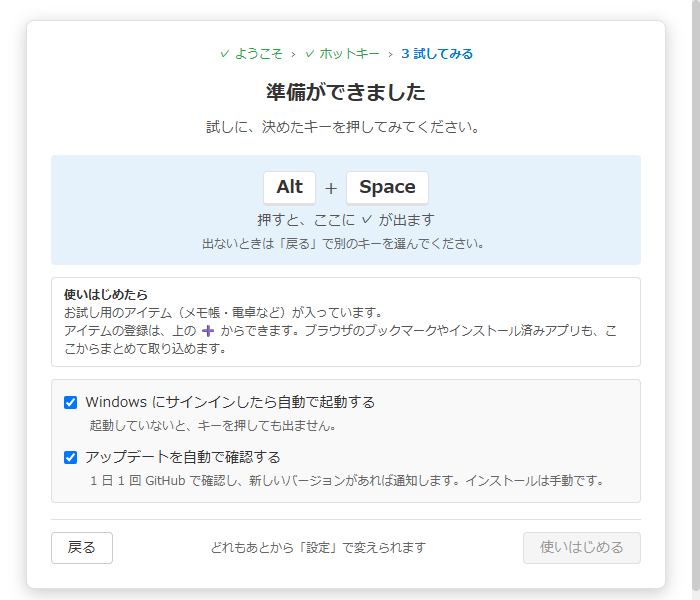
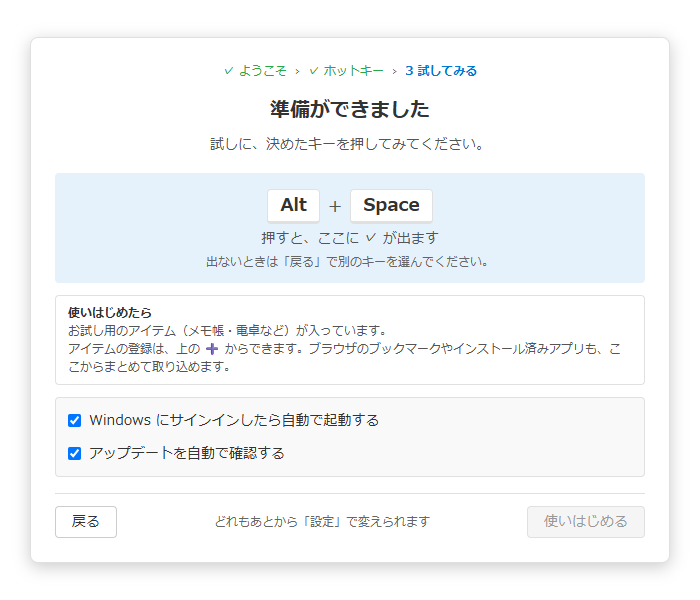
fix: 初回設定の「試してみる」のチェックの説明を消す (#686)
自動起動・アップデートの確認・ポータブルモードの 3 つのチェックの下の説明を消した（ラベルで分かるため）。
ポータブルモードのチェックを出すときは、ボタンの間の一文を「ポータブルモード以外は、あとから「設定」で変えられます」にした（あとから変えられない旨は説明に書いていたため）。

Changed region(s): [[0.03, 0.06, 0.96, 0.99], [0.99, 0.0, 1.0, 0.99]]

diff --git a/src/renderer/components/SetupFirstLaunch.tsx b/src/renderer/components/SetupFirstLaunch.tsx
@@ -315,38 +315,31 @@ export const SetupFirstLaunch: React.FC<FirstLaunchSetupProps> = ({ onComplete }
                 />
                 {t('firstLaunch.autoLaunch')}
               </label>
-              <p className="auto-launch-hint">{t('firstLaunch.autoLaunchHint')}</p>
               {!isStore && (
-                <>
-                  <label className="auto-launch-checkbox-label update-check-checkbox-label">
-                    <input
-                      type="checkbox"
-                      checked={updateCheckEnabled}
-                      onChange={(e) => setUpdateCheckEnabled(e.target.checked)}
-                      disabled={isLoading}
-                      className="update-check-checkbox"
-                      data-testid="first-launch-update-check"
-                    />
-                    {t('firstLaunch.updateCheck')}
-                  </label>
-                  <p className="update-check-hint">{t('firstLaunch.updateCheckHint')}</p>
-                </>
+                <label className="auto-launch-checkbox-label update-check-checkbox-label">
+                  <input
+                    type="checkbox"
+                    checked={updateCheckEnabled}
+                    onChange={(e) => setUpdateCheckEnabled(e.target.checked)}
+                    disabled={isLoading}
+                    className="update-check-checkbox"
+                    data-testid="first-launch-update-check"
+                  />
+                  {t('firstLaunch.updateCheck')}
+                </label>
               )}
               {portableModeAvailable && (
-                <>
-                  <label className="auto-launch-checkbox-label portable-mode-checkbox-label">
-                    <input
-                      type="checkbox"
-                      checked={portableMode}
-                      onChange={(e) => setPortableMode(e.target.checked)}
-                      disabled={isLoading}
-                      className="portable-mode-checkbox"
-                      data-testid="first-launch-portable-mode"
-                    />
-                    {t('firstLaunch.portableMode')}
-                  </label>
-                  <p className="portable-mode-hint">{t('firstLaunch.portableModeHint')}</p>
-                </>
+                <label className="auto-launch-checkbox-label portable-mode-checkbox-label">
+                  <input
+                    type="checkbox"
+                    checked={portableMode}
+                    onChange={(e) => setPortableMode(e.target.checked)}
+                    disabled={isLoading}
+                    className="portable-mode-checkbox"
+                    data-testid="first-launch-portable-mode"
+                  />
+                  {t('firstLaunch.portableMode')}
+                </label>
               )}
             </div>
 
@@ -365,7 +358,13 @@ export const SetupFirstLaunch: React.FC<FirstLaunchSetupProps> = ({ onComplete }
               >
                 {t('firstLaunch.back')}
               </Button>
-              <span className="first-launch-change-later">{t('firstLaunch.changeLater')}</span>
+              <span className="first-launch-change-later">
+                {t(
+                  portableModeAvailable
+                    ? 'firstLaunch.changeLaterExceptPortable'
+                    : 'firstLaunch.changeLater'
+                )}
+              </span>
               <Button
                 variant="primary"
                 type="button"

diff --git a/src/common/i18n/locales/ja.ts b/src/common/i18n/locales/ja.ts
@@ -346,14 +346,10 @@ export const ja = {
     gettingStartedAdd:
       'アイテムの登録は、上の ➕ からできます。ブラウザのブックマークやインストール済みアプリも、ここからまとめて取り込めます。',
     autoLaunch: 'Windows にサインインしたら自動で起動する',
-    autoLaunchHint: '起動していないと、キーを押しても出ません。',
     updateCheck: 'アップデートを自動で確認する',
-    updateCheckHint:
-      '1 日 1 回 GitHub で確認し、新しいバージョンがあれば通知します。インストールは手動です。',
     portableMode: 'データを exe の横に保存する（ポータブルモード）',
-    portableModeHint:
-      'USB メモリなどに入れて持ち歩くときに。ふだんはオフのままで大丈夫です（あとから「設定」では変えられません）。',
     changeLater: 'どれもあとから「設定」で変えられます',
+    changeLaterExceptPortable: 'ポータブルモード以外は、あとから「設定」で変えられます',
     complete: '使いはじめる',
     saveFailed: '設定を保存できませんでした。もう一度「使いはじめる」を押してください。',
     defaultTabName: 'メイン',

diff --git a/src/renderer/components/SetupFirstLaunch.test.tsx b/src/renderer/components/SetupFirstLaunch.test.tsx
@@ -169,6 +169,16 @@ describe('SetupFirstLaunch', () => {
     await goToTryStep();
     await screen.findByText('アップデートを自動で確認する');
     expect(screen.queryByTestId('first-launch-portable-mode')).toBeNull();
+    expect(screen.getByText('どれもあとから「設定」で変えられます')).toBeTruthy();
+  });
+
+  it('ポータブルモードを選べるときは、あとから変えられないことをボタンの間に書く', async () => {
+    portableModeAvailable = true;
+    render(<SetupFirstLaunch onComplete={vi.fn(async () => true)} />);
+    await goToTryStep();
+    await screen.findByTestId('first-launch-portable-mode');
+    expect(screen.getByText('ポータブルモード以外は、あとから「設定」で変えられます')).toBeTruthy();
+    expect(screen.queryByText('どれもあとから「設定」で変えられます')).toBeNull();
   });
 
   it('ウィンドウ検索のキーをほかのアプリが使っていたら、閉じた欄を開いて知らせ、先へ進まない', async () => {

diff --git a/src/common/i18n/locales/en.ts b/src/common/i18n/locales/en.ts
@@ -345,14 +345,10 @@ export const en: LocaleMessages = {
     gettingStartedAdd:
       'To add items, use ➕ at the top. You can also import browser bookmarks and installed apps from there.',
     autoLaunch: 'Start automatically when I sign in to Windows',
-    autoLaunchHint: "If it isn't running, the hotkey won't bring it up.",
     updateCheck: 'Check for updates automatically',
-    updateCheckHint:
-      'Checks GitHub once a day and lets you know when a new version is out. You install it yourself.',
     portableMode: 'Save data next to the exe (portable mode)',
-    portableModeHint:
-      "For carrying QDL on a USB drive. Leave it off if you're not sure (you can't change this later in Settings).",
     changeLater: 'You can change all of this later in Settings.',
+    changeLaterExceptPortable: 'You can change all of this except portable mode later in Settings.',
     complete: 'Get started',
     saveFailed: 'Couldn\'t save the settings. Click "Get started" again.',
     defaultTabName: 'Main',

diff --git a/tests/e2e/specs/first-launch-setup.spec.ts b/tests/e2e/specs/first-launch-setup.spec.ts
@@ -72,7 +72,6 @@ test.describe('QuickDashLauncher - 初回起動設定画面テスト', () => {
       await goToTryStep(mainWindow);
       await expect(mainWindow.locator('.first-launch-try-waiting')).toBeVisible();
       expect(await mainWindow.isChecked('.auto-launch-checkbox')).toBe(true);
-      await expect(mainWindow.locator('.auto-launch-hint')).toBeVisible();
       // 更新の知らせも既定でオン（E2E は開発版なので Store 版の扱いにはならない）
       expect(await mainWindow.isChecked('[data-testid="first-launch-update-check"]')).toBe(true);
     });

diff --git a/src/renderer/styles/components/SetupFirstLaunch.css b/src/renderer/styles/components/SetupFirstLaunch.css
@@ -273,16 +273,6 @@
   cursor: not-allowed;
 }
 
-.auto-launch-hint,
-.update-check-hint,
-.portable-mode-hint {
-  margin: var(--spacing-xs) 0 0 0;
-  margin-left: calc(var(--spacing-sm) + 18px); /* チェックボックス幅 + gap */
-  font-size: var(--font-size-sm);
-  color: var(--text-muted);
-  line-height: 1.5;
-}
-
 /* 自動起動の下に並べる「新しい版が出たら知らせる」・「データを exe の横に保存する」 */
 .update-check-checkbox-label,
 .portable-mode-checkbox-label {

diff --git a/docs/screens/first-launch-setup.md b/docs/screens/first-launch-setup.md
@@ -65,10 +65,10 @@
 | **試してみる** | タイトル・説明文 | 「準備ができました」「試しに、決めたキーを押してみてください。」 | 試してみる | - |
 | **試してみる** | 押したかの表示 | キーの表示と、押す前は「押すと、ここに ✓ が出ます」「出ないときは「戻る」で別のキーを選んでください。」。押したら「✓ 呼び出せました」 | 試してみる | [5.4](#54-試してみるで起動ホットキーを押す) |
 | **試してみる** | 使いはじめたら | 「お試し用のアイテム（メモ帳・電卓など）が入っています。」「アイテムの登録は、上の ➕ からできます。ブラウザのブックマークやインストール済みアプリも、ここからまとめて取り込めます。」 | 試してみる | - |
-| **試してみる** | 自動起動チェックボックス | ラベル「Windows にサインインしたら自動で起動する」（既定: 有効）、下にヒント「起動していないと、キーを押しても出ません。」 | 試してみる | [5.7](#57-自動起動設定の変更) |
-| **試してみる** | 更新の知らせチェックボックス | 自動起動の下。ラベル「アップデートを自動で確認する」（既定: 有効）、下にヒント「1 日 1 回 GitHub で確認し、新しいバージョンがあれば通知します。インストールは手動です。」。Store 版では出さない（Store が更新する）。設定の `updateCheckEnabled`（[管理ウィンドウ - アップデートを自動で確認する](./admin-window.md#アップデートを自動で確認する)） | 試してみる | [5.5](#55-使いはじめるボタン押下) |
-| **試してみる** | ポータブルモードのチェックボックス | 更新の知らせの下。ラベル「データを exe の横に保存する（ポータブルモード）」（既定: 無効）、下にヒント「USB メモリなどに入れて持ち歩くときに。ふだんはオフのままで大丈夫です（あとから「設定」では変えられません）。」。ZIP 版で、exe の横にデータフォルダがまだ無いときだけ出す（[ビルドとデプロイ - ZIP 版](../setup/build-deploy.md#zip-版)） | 試してみる | [5.5](#55-使いはじめるボタン押下) |
-| **試してみる** | 「戻る」「使いはじめる」ボタン | 間に「どれもあとから「設定」で変えられます」。「戻る」でホットキーへ。「使いはじめる」で設定を保存して完了。ホットキーを押して ✓ が出るまでと、保存中は無効。保存に失敗したら、ボタンの上に赤字で「設定を保存できませんでした。もう一度「使いはじめる」を押してください。」を出し、ボタンと自動起動・更新の知らせのチェックを押せる状態に戻す | 試してみる | [5.5](#55-使いはじめるボタン押下) |
+| **試してみる** | 自動起動チェックボックス | ラベル「Windows にサインインしたら自動で起動する」（既定: 有効）。説明は付けない | 試してみる | [5.7](#57-自動起動設定の変更) |
+| **試してみる** | 更新の知らせチェックボックス | 自動起動の下。ラベル「アップデートを自動で確認する」（既定: 有効）。Store 版では出さない（Store が更新する）。設定の `updateCheckEnabled`（[管理ウィンドウ - アップデートを自動で確認する](./admin-window.md#アップデートを自動で確認する)） | 試してみる | [5.5](#55-使いはじめるボタン押下) |
+| **試してみる** | ポータブルモードのチェックボックス | 更新の知らせの下。ラベル「データを exe の横に保存する（ポータブルモード）」（既定: 無効）。ZIP 版で、exe の横にデータフォルダがまだ無いときだけ出す（[ビルドとデプロイ - ZIP 版](../setup/build-deploy.md#zip-版)） | 試してみる | [5.5](#55-使いはじめるボタン押下) |
+| **試してみる** | 「戻る」「使いはじめる」ボタン | 間に「どれもあとから「設定」で変えられます」（ポータブルモードのチェックを出すときは「ポータブルモード以外は、あとから「設定」で変えられます」）。「戻る」でホットキーへ。「使いはじめる」で設定を保存して完了。ホットキーを押して ✓ が出るまでと、保存中は無効。保存に失敗したら、ボタンの上に赤字で「設定を保存できませんでした。もう一度「使いはじめる」を押してください。」を出し、ボタンと自動起動・更新の知らせのチェックを押せる状態に戻す | 試してみる | [5.5](#55-使いはじめるボタン押下) |
 
 ## 4. アクション一覧
 
